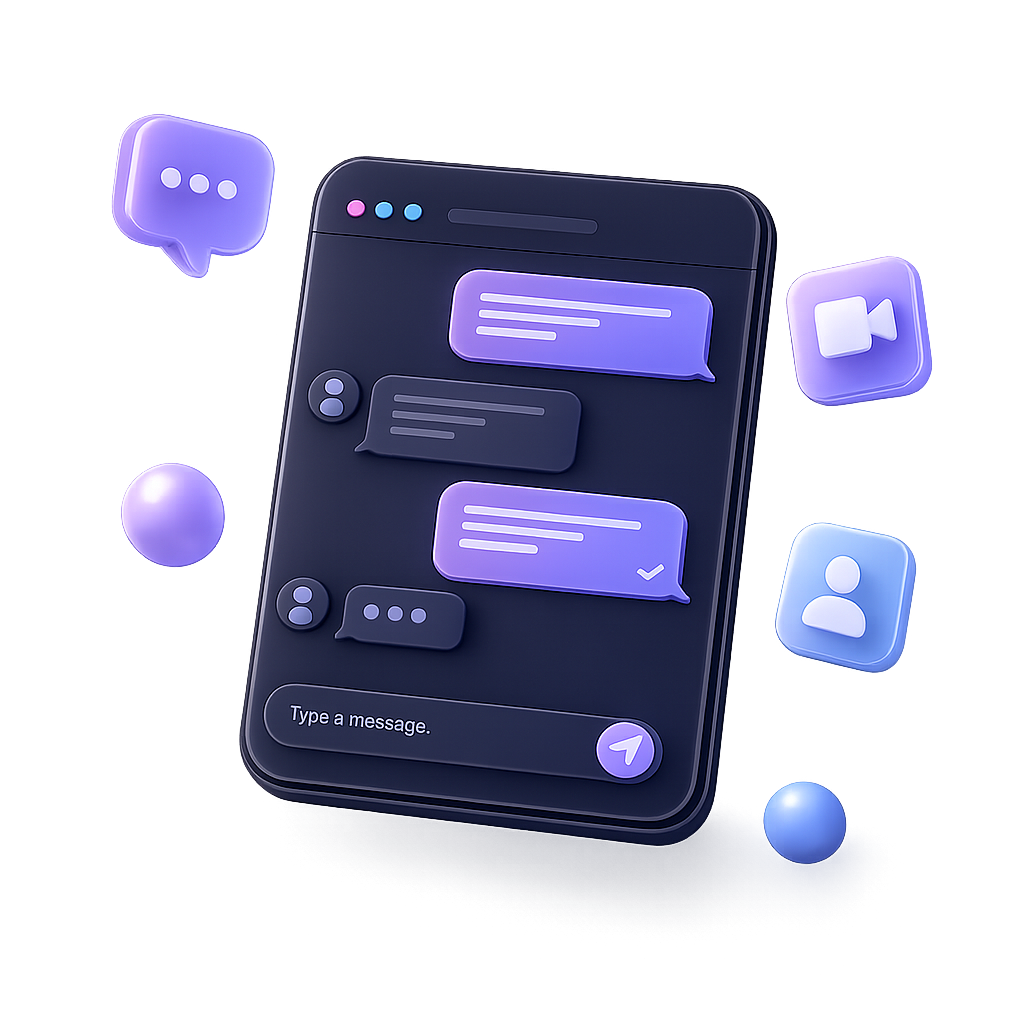
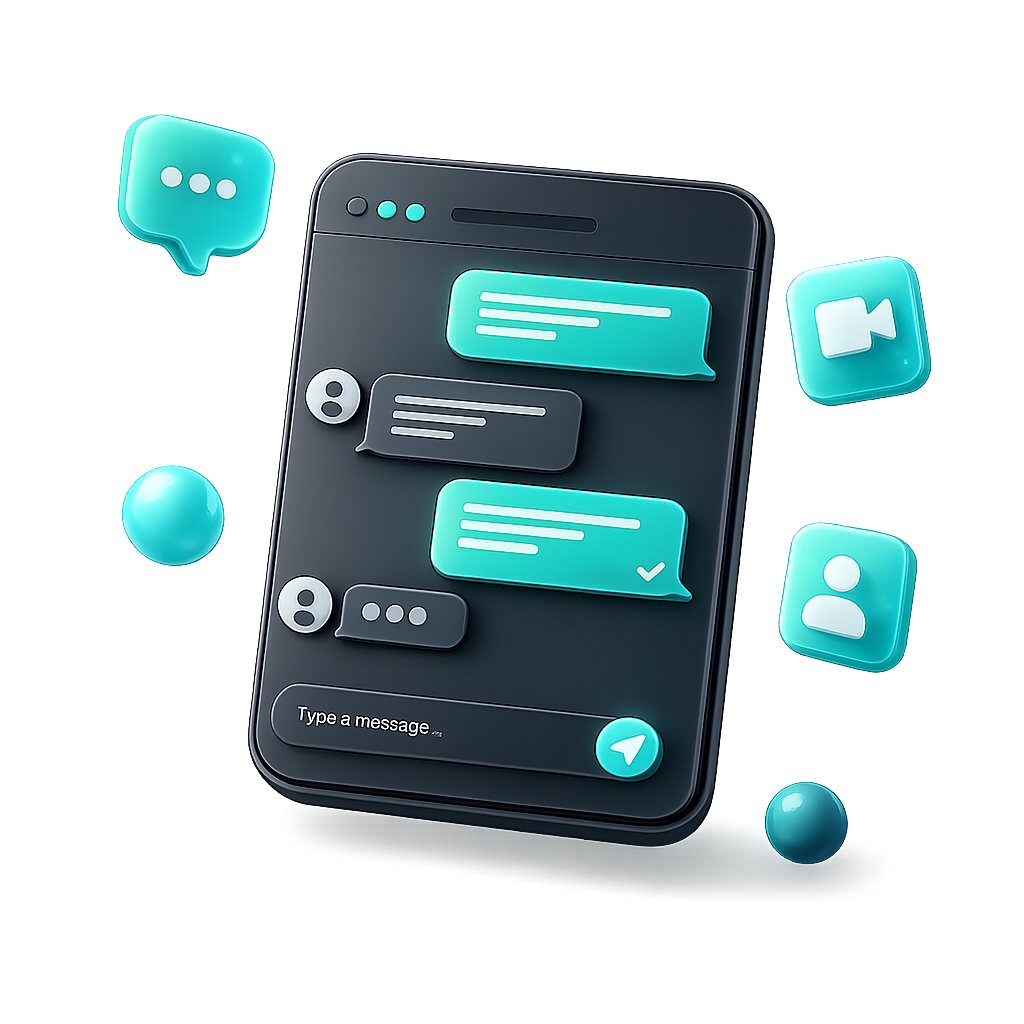
upated ui of web

Changed region(s): [[0.0938, 0.0938, 0.9062, 0.875], [0.0938, 0.4375, 0.2188, 0.5625]]

diff --git a/web/app/globals.css b/web/app/globals.css
@@ -1,38 +1,57 @@
 @import "tailwindcss";
+@source "../**/*.{js,ts,jsx,tsx}";
 @plugin "daisyui";
 
-@theme {
-  /* Base */
-  --color-background: #020817;
-  --color-surface: #0f172a;
-  --color-card: #111827;
-  --color-sidebar: #0b1120;
+@plugin "daisyui/theme" {
+  name: "pulse";
+  default: true;
+  prefersdark: true;
+  color-scheme: dark;
 
-  /* Brand */
-  --color-primary: #4f46e5; /* Indigo */
-  --color-primary-hover: #4338ca;
-  --color-secondary: #06b6d4; /* Cyan */
-  --color-accent: #8b5cf6; /* Purple */
+  --color-primary: #14b8a6; /* Teal 500 */
+  --color-primary-content: #ffffff;
 
-  /* Chat */
-  --color-bubble-sent: #4f46e5;
-  --color-bubble-sent-text: #ffffff;
+  --color-secondary: #a3a3a3;
+  --color-secondary-content: #000000;
 
-  --color-bubble-received: #1e293b;
-  --color-bubble-received-text: #f8fafc;
+  --color-accent: #2dd4bf; /* Teal 400 */
+  --color-accent-content: #000000;
 
-  /* Semantic */
+  --color-neutral: #111111;
+  --color-neutral-content: #fafafa;
+
+  --color-base-100: #000000;
+  --color-base-200: #0a0a0a;
+  --color-base-300: #111111;
+  --color-base-content: #fafafa;
+
   --color-success: #22c55e;
   --color-warning: #f59e0b;
   --color-error: #ef4444;
-  --color-info: #38bdf8;
+  --color-info: #3b82f6;
 
-  /* Borders */
-  --color-border: #273449;
-  --color-border-hover: #334155;
+  --radius-box: 1rem;
+  --radius-field: 0.5rem;
+  --radius-selector: 1rem;
+}
 
-  /* Text */
-  --color-text: #f8fafc;
-  --color-muted: #94a3b8;
-  --color-muted-2: #64748b;
+@theme {
+  /* Your own extra tokens that aren't part of DaisyUI's theme vocabulary */
+  --color-background: #000000;
+  --color-surface: #0a0a0a;
+  --color-card: #111111;
+  --color-sidebar: #050505;
+
+  --color-bubble-sent: #14b8a6;
+  --color-bubble-sent-text: #ffffff;
+  --color-bubble-received: #141414;
+  --color-bubble-received-text: #f5f5f5;
+
+  --color-border: #262626;
+  --color-border-hover: #404040;
+
+  --color-text: #fafafa;
+  --color-muted: #a3a3a3;
+  --color-muted-2: #737373;
+  --color-primary-hover: #0d9488; /* Teal 600 */
 }

diff --git a/web/src/components/LandingScreen.tsx b/web/src/components/LandingScreen.tsx
@@ -1,5 +1,5 @@
 import { SignInButton, SignUpButton } from "@clerk/nextjs";
-import { ArrowRightIcon, SparklesIcon } from "lucide-react";
+import { ArrowRightIcon } from "lucide-react";
 import Image from "next/image";
 
 function LandingScreen() {
@@ -11,7 +11,7 @@ function LandingScreen() {
         <nav className="flex items-center justify-between relative z-10">
           {/* Logo */}
           <div className="flex items-center gap-3">
-            <div className="flex h-11 w-11 items-center justify-center rounded-xl bg-linear-to-br from-primary to-accent">
+            <div className="flex h-11 w-11 items-center justify-center rounded-xl bg-primary shadow-lg shadow-primary/30">
               <Image
                 src="/logo.png"
                 alt="Pulse Logo"
@@ -34,7 +34,7 @@ function LandingScreen() {
             </SignInButton>
 
             <SignUpButton mode="modal">
-              <button className="flex items-center gap-2 px-6 py-2.5 rounded-full text-sm font-semibold bg-linear-to-r from-primary to-accent hover:opacity-90 transition shadow-lg shadow-primary/30">
+              <button className="flex items-center gap-2 px-6 py-2.5 rounded-full text-sm font-semibold bg-primary text-white hover:bg-primary-hover transition shadow-lg shadow-primary/30">
                 Get Started
                 <ArrowRightIcon className="w-4 h-4" />
               </button>
@@ -46,8 +46,8 @@ function LandingScreen() {
         <div className="flex-1 flex flex-col justify-center max-w-xl relative z-10">
           {/* Tag */}
           <div className="mt-8 mb-6">
-            <span className="inline-flex items-center gap-2 px-4 py-2 rounded-full bg-cyan-500/10 border border-cyan-400/20 text-cyan-400 text-xs font-semibold tracking-widest uppercase backdrop-blur-sm">
-              <span className="size-2 rounded-full bg-cyan-400 animate-pulse shadow-[0_0_10px_#22d3ee]" />
+            <span className="inline-flex items-center gap-2 px-4 py-2 rounded-full bg-primary/10 border border-primary/20 text-accent text-xs font-semibold tracking-widest uppercase backdrop-blur-sm">
+              <span className="size-2 rounded-full bg-primary animate-pulse shadow-[0_0_10px_#14b8a6]" />
               Real-Time Communication
             </span>
           </div>
@@ -55,9 +55,7 @@ function LandingScreen() {
           <h1 className="text-4xl lg:text-5xl xl:text-6xl font-bold leading-[1.05] tracking-tight">
             Stay connected,
             <br />
-            <span className="bg-linear-to-r from-fuchsia-500 via-purple-500 to-cyan-400 bg-clip-text text-transparent">
-              anytime, anywhere.
-            </span>
+            <span className="text-primary">anytime, anywhere.</span>
           </h1>
 
           {/* Description */}
@@ -69,14 +67,14 @@ function LandingScreen() {
           {/* CTA BUTTONS */}
           <div className="mt-10 flex items-center gap-4">
             <SignUpButton mode="modal">
-              <button className="group flex items-center gap-3 px-8 py-4  bg-surface font-semibold rounded-2xl hover:bg-card  transition">
+              <button className="group flex items-center gap-3 px-8 py-4 bg-primary text-white font-semibold rounded-2xl hover:bg-primary-hover transition">
                 Start chatting
                 <ArrowRightIcon className="w-5 h-5 group-hover:translate-x-1 transition-transform" />
               </button>
             </SignUpButton>
 
             <SignInButton mode="modal">
-              <button className="px-8 py-4 text-base-content/60 font-semibold hover:text-base-content transition">
+              <button className="px-8 py-4 text-muted font-semibold hover:text-text transition">
                 I have an account
               </button>
             </SignInButton>
@@ -105,7 +103,7 @@ function LandingScreen() {
                 </div>
               ))}
 
-              <div className="flex items-center justify-center size-10 rounded-full border-2 border-background bg-primary text-white text-xs font-semibold">
+              <div className="flex items-center justify-center size-10 rounded-full border-2 border-background bg-card text-text text-xs font-semibold">
                 +5K
               </div>
             </div>
@@ -156,15 +154,15 @@ function LandingScreen() {
           className="absolute inset-0"
           style={{
             backgroundImage: `
-              linear-gradient(to right, rgba(39,52,73,0.4) 1px, transparent 1px),
-              linear-gradient(to bottom, rgba(39,52,73,0.4) 1px, transparent 1px)
+              linear-gradient(to right, rgba(38,38,38,0.5) 1px, transparent 1px),
+              linear-gradient(to bottom, rgba(38,38,38,0.5) 1px, transparent 1px)
             `,
             backgroundSize: "50px 50px",
           }}
         />
 
         {/* Radial Glow */}
-        <div className="absolute top-1/2 left-1/2 -translate-x-1/2 -translate-y-1/2 w-125 h-125 bg-linear-to-r from-primary/20 to-accent/20 rounded-full blur-[100px]" />
+        <div className="absolute top-1/2 left-1/2 -translate-x-1/2 -translate-y-1/2 w-125 h-125 bg-primary/15 rounded-full blur-[100px]" />
 
         {/* Image Container */}
         <div className="relative z-10">